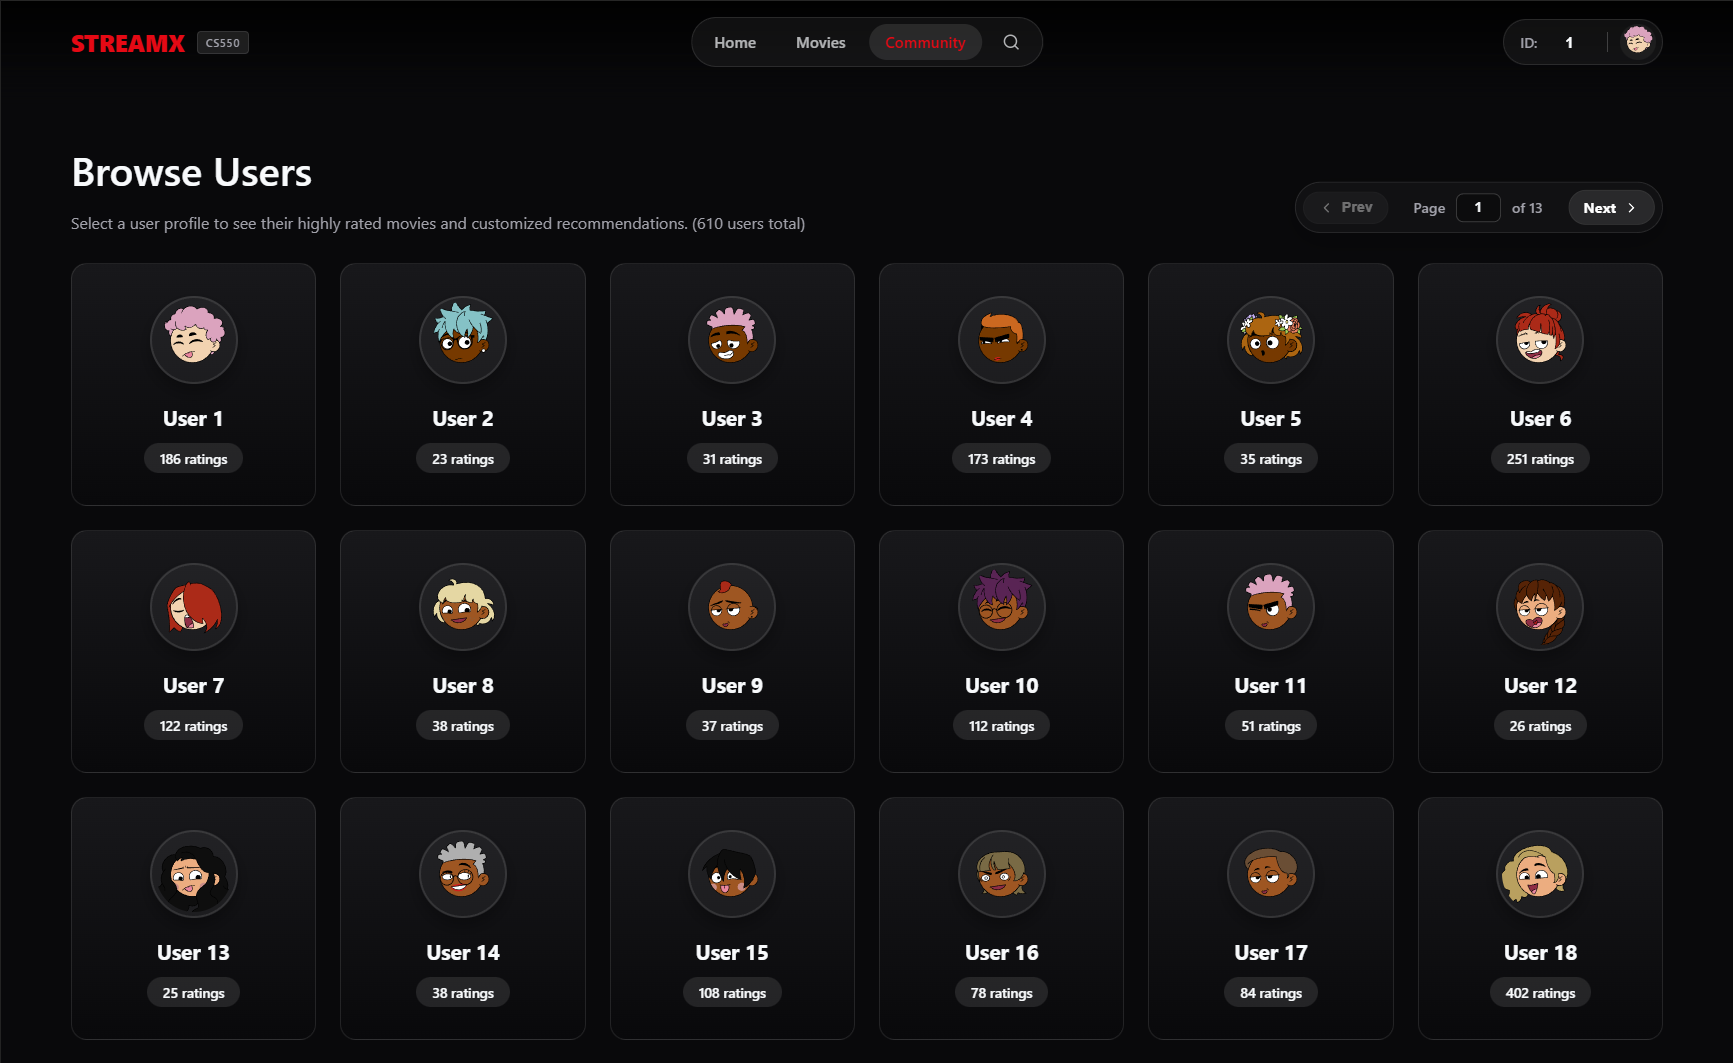
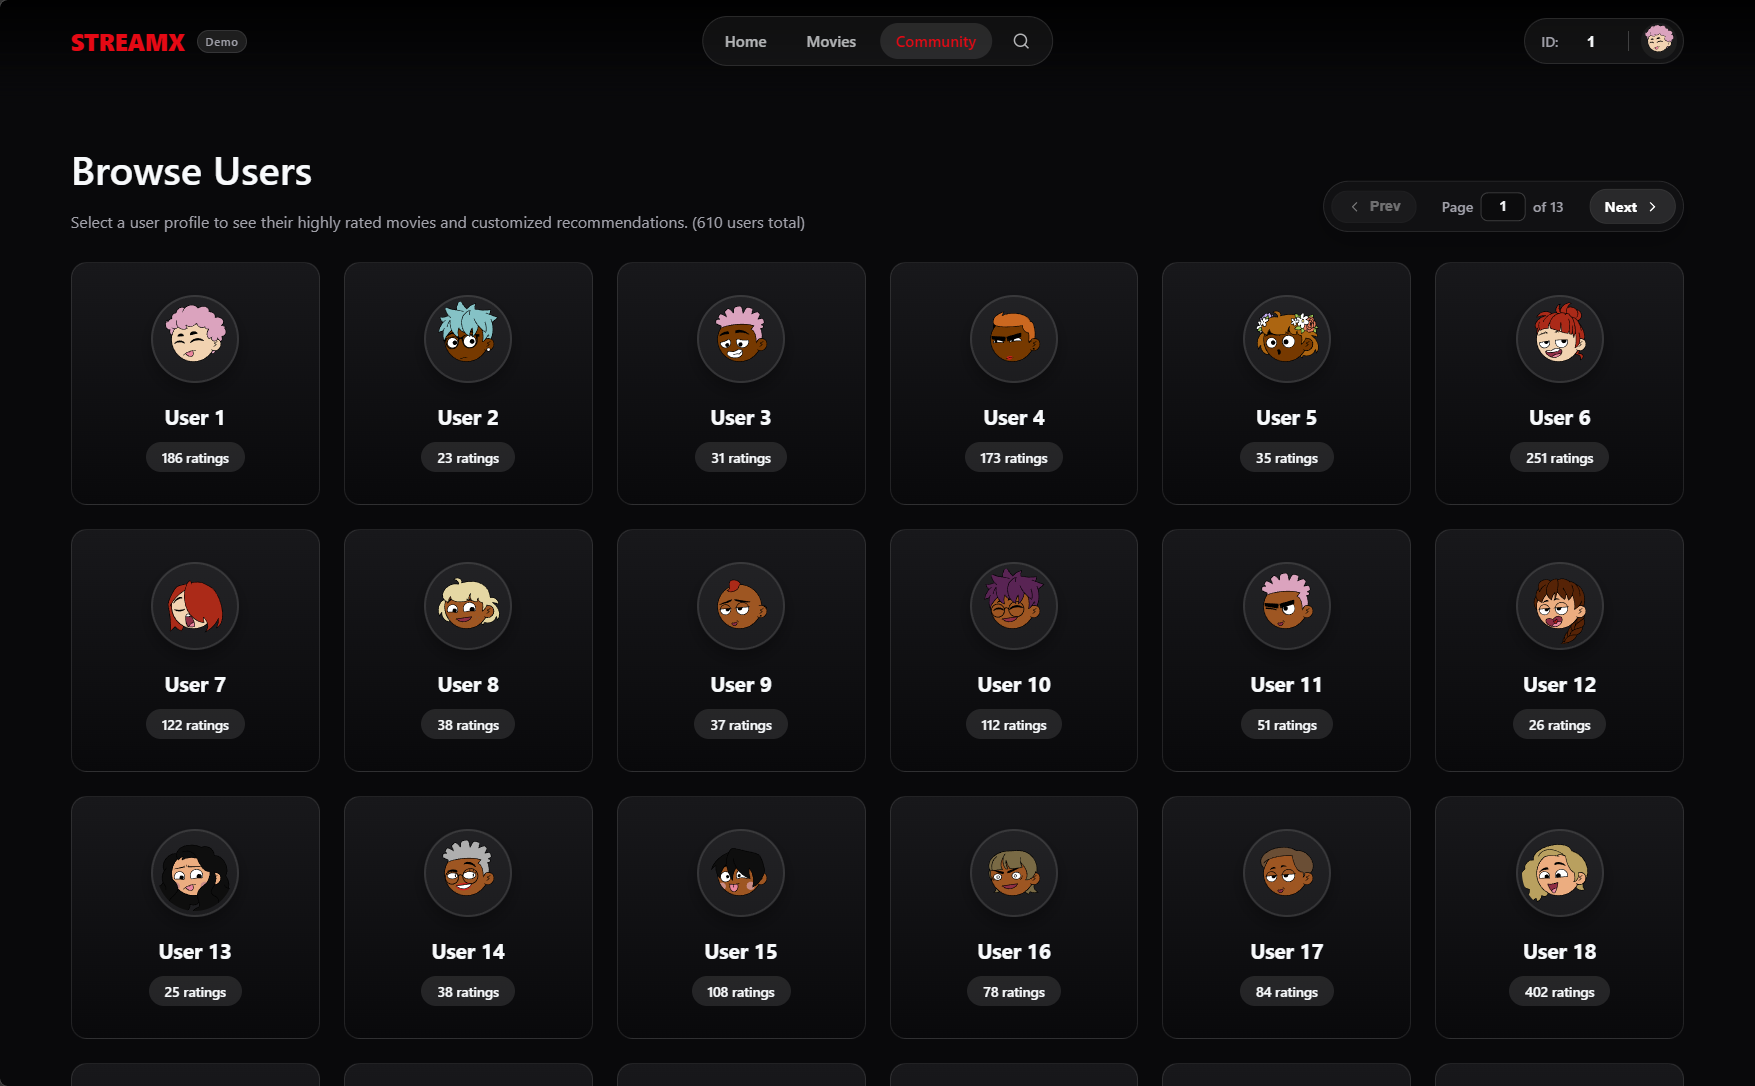
Update prview

diff --git a/frontend/components/navbar.tsx b/frontend/components/navbar.tsx
@@ -61,7 +61,7 @@ export default function AppNavbar() {
           <NextLink href="/" className="brand-link" onClick={() => setIsMenuOpen(false)}>
             STREAMX
           </NextLink>
-          <span className="option-badge">CS550</span>
+          <span className="option-badge">Demo</span>
         </div>
 
         <button 

diff --git a/frontend/app/globals.css b/frontend/app/globals.css
@@ -92,7 +92,7 @@ body {
 
 .option-badge {
   padding: 3px 8px;
-  border-radius: 4px;
+  border-radius: 99px;
   background: rgba(255, 255, 255, 0.1);
   color: var(--text-subtle);
   font-size: 0.7rem;

diff --git a/README.md b/README.md
@@ -19,13 +19,17 @@ A full-stack application implementing a custom Recommender System with a modern 
 
 ## UX Preview
 
-| Home Page | Library |
+| Home Page | Top Picks |
 | :---: | :---: |
-| ![Home](preview/Home.png) | ![Library](preview/Library.png) |
+| ![Home](preview/Home.png) | ![Top Picks](preview/TopPicks.png) |
 
-| Movie Detail | Community | User Profile |
+| Collection | Library | Movie Detail |
 | :---: | :---: | :---: |
-| ![Movies Detail](preview/MoviesDetail.png) | ![Community](preview/Community.png) | ![User Profile](preview/UserProfile.png) |
+| ![Collection](preview/Collection.png) | ![Library](preview/Library.png) | ![Movies Detail](preview/MoviesDetail.png) |
+
+| Community | User Profile |
+| :---: | :---: |
+| ![Community](preview/Community.png) | ![User Profile](preview/UserProfile.png) |
 
 ## Project Structure
 
